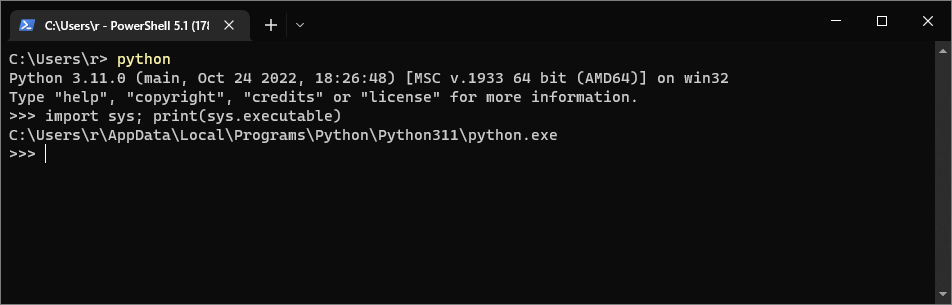
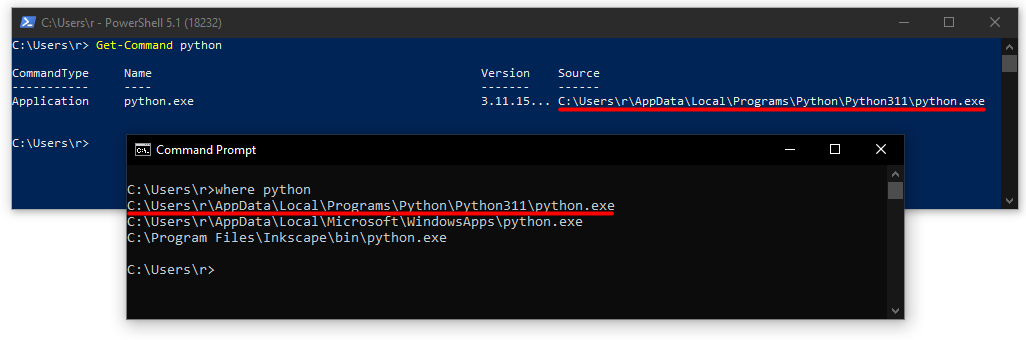
tweaks and link fixes to windows guides, still in reorg process

diff --git a/pydis_site/apps/content/resources/guides/python-guides/windows/putting-python-on-path.md b/pydis_site/apps/content/resources/guides/python-guides/windows/putting-python-on-path.md
@@ -5,10 +5,8 @@ icon: fab fa-windows
 toc: 2
 ---
 
-<!-- TODO Test the guide if you have no admin privileges and mention the differences. -->
-
 If you're on Windows and know you have [Python installed from python.org](https://www.python.org/downloads/) ([our
-recommended way](../installing-python.md)) but you're still getting errors like
+recommended way](../installing-python)) but you're still getting errors like
 
 ```text
 pip : The term 'pip' is not recognized as the name of a cmdlet, function, script file, or operable program.
@@ -16,7 +14,7 @@ pip : The term 'pip' is not recognized as the name of a cmdlet, function, script
 
 when trying to run a [pip](https://pip.pypa.io/en/stable/) or [pyinstaller](https://pypi.org/project/pyinstaller/)
 command, or running `python` [unexpectedly opens up the Microsoft
-Store](../microsoft-store.mdconfusing-app-execution-alias-behaviour), the issue is likely that your Windows Path
+Store](../microsoft-store#confusing-app-execution-alias-behaviour), the issue is likely that your Windows Path
 environment variable is improperly configured for Python. This just means Windows doesn't know how to find your Python
 installation.
 
@@ -72,7 +70,7 @@ still need to locate the installer exe at step 5 if it's not already in Download
 
 ### Verifying your changes
 
-To check that it worked, open a fresh terminal &mdash; Command Prompt, Powershell, an IDE-integrated terminal, [Windows
+To check that it worked, open a fresh terminal &mdash; Command Prompt, PowerShell, an IDE-integrated terminal, [Windows
 Terminal](https://apps.microsoft.com/store/detail/windows-terminal/9N0DX20HK701), whichever you prefer, just _not_ the
 Python terminal with the `>>>` prompt &mdash; and run
 
@@ -90,19 +88,24 @@ and you should see the versions of Python and pip that you just added to Path:
 
 ![Checking Python and pip versions.](/static/images/content/python-on-windows/testing_path_worked_1.png)
 
-You can also run Python with `python`, and then after `>>>` in the Python REPL, run
+Running `Get-Command python` in PowerShell, or `where python` in Command Prompt, you
+can see where that terminal is finding the `python.exe` it would run when a `python` command is given:
+
+![Get-Command/where Python.](/static/images/content/python-on-windows/testing_path_worked_2.png)
+
+(`where` in fact lists all the Pythons it finds, even the dummy [app execution
+alias](../microsoft-store#confusing-app-execution-alias-behaviour) one that opens the Microsoft Store.)
+
+You can also run Python with `python` (not `py` as that may start a different version, see more
+[here](.../py-launcher)), and then after `>>>` in the Python REPL, run
 
 ```py
-import sys; print(sys.executable)
+import sys; print(sys.executable); exit();
 ```
 
 to see that the exact executable that is currently running Python is what you expect:
 
-![Checking Python executable.](/static/images/content/python-on-windows/testing_path_worked_2.png)
-
-Type `exit()` from here to go back to the normal terminal.
-
-<!-- TODO mention that py may open a different version and link to py launcher guide. -->
+![Checking Python executable.](/static/images/content/python-on-windows/testing_path_worked_3.png)
 
 Of course your username will probably not be "r", and your executable path may differ from
 `C:\Users\<user>\AppData\Local\Programs\Python\Python311` depending on where you chose to install Python and what
@@ -142,7 +145,7 @@ foobar: The term 'foobar' is not recognized as the name of a cmdlet, function, s
 ```
 
 Or, in the case of not finding `python`, it may [open up the Microsoft
-store](../microsoft-store.md#confusing-app-execution-alias-behaviour).
+store](../microsoft-store#confusing-app-execution-alias-behaviour).
 
 Again, the Path lookup order is:
 
@@ -220,8 +223,9 @@ Follow these steps to add Python to the Path:
 
     This step may not be strictly necessary, but remember that command lookup happens in order from top to bottom.
     Python is often bundled with other software that may end up on the Path, so there's there could be another
-    `python.exe` in one of of the other folders on the path that gets in the way. (This exact thing has happened to me when
-    I put `C:\Program Files\Inkscape\bin` on my Path, as [Inkscape](https://inkscape.org/) comes with a copy of Python.)
+    `python.exe` in one of of the other folders on the path that gets in the way. (This exact thing has happened to me
+    when I put `C:\Program Files\Inkscape\bin` on my Path, as [Inkscape](https://inkscape.org/) comes with a copy of
+    Python.)
 
     Also, the System Path comes first in command lookup, so to be certain you to may want to go back and check the
     System Path (see step 5) and _carefully_ delete any entry that is a Python executable path blocking the one you just
@@ -232,10 +236,13 @@ Follow these steps to add Python to the Path:
 9.  Finish by making sure to hit "OK" on each of the thee "Edit environment variable", "Environment Variable", and
     "System Properties" windows, and then you're done!
 
-    Python and Python Scripts should not be on your Path! **You will need to restart any terminals or editors you have open before they detect the change.**
+    Python and Python Scripts should not be on your Path! **You will need to restart any terminals or editors you have
+    open before they detect the change.**
 
 At this point you can [verify your changes in the same way as detailed above](#verifying-your-changes). Hopefully it
 works!
 
 (These steps were written with Windows 10 and Python 3.11 in mind, but they should be identical or similar for Windows
 11 and other recent versions of Python.)
+
+<!-- dg:TODO? Test the guide if you have no admin privileges and mention the differences. -->

diff --git a/pydis_site/apps/content/resources/guides/python-guides/windows/microsoft-store.md b/pydis_site/apps/content/resources/guides/python-guides/windows/microsoft-store.md
@@ -7,13 +7,12 @@ icon: fab fa-windows
 [<img style="margin:1rem;" align="right" width="480px"
 src="/static/images/content/python-on-windows/ms_store_drake.png">](/static/images/content/python-on-windows/ms_store_drake.png)
 
-Microsoft provides versions of Python for Windows
-[on the Microsoft Store](https://apps.microsoft.com/store/search/python) as an alternative to using the
-[full installer from python.org](https://www.python.org/downloads). **We recommend you install Python on Windows using the
-[full installer from python.org](https://www.python.org/downloads),
-and not from the Microsoft store wherever possible!**
+Microsoft provides versions of Python for Windows [on the Microsoft
+Store](https://apps.microsoft.com/store/search/python) as an alternative to using the [full installer from
+python.org](https://www.python.org/downloads). **We recommend you install Python on Windows using the [full installer
+from python.org](https://www.python.org/downloads), and not from the Microsoft store wherever possible!**
 
-You can follow [this guide to install Python from python.org](../install-on-windows.md) and more Python Windows releases
+You can follow [this guide to install Python from python.org](../installing-python) and more Python Windows releases
 can be found [here](https://www.python.org/downloads/windows).
 
 Here are some common issues with using Python from the Microsoft Store:
@@ -27,9 +26,8 @@ Here are some common issues with using Python from the Microsoft Store:
 
 -   ##### It can cause issues with permissions
 
-    Some modules and scripts wont work with it because of restricted permissions.
-    This is explained
-    [in the Python documentation](https://docs.python.org/3/using/windows.html#redirection-of-local-data-registry-and-temporary-paths)
+    Some modules and scripts wont work with it because of restricted permissions. This is explained [in the Python
+    documentation](https://docs.python.org/3/using/windows.html#redirection-of-local-data-registry-and-temporary-paths)
 
 -   ##### It can cause Path confusion
 
@@ -43,7 +41,8 @@ Here are some common issues with using Python from the Microsoft Store:
     `C:\Users\<user>\AppData\Local\Programs\Python\Python311\Scripts` (for Python 3.11). If for some reason you want
     both installed, put the ones you want the commands for higher up in Path.
 
-    You can find the path of the executable for a version of Python by running `import sys; print(sys.executable)` in it.
+    You can find the path of the executable for a version of Python by running `import sys; print(sys.executable)` in
+    it.
 
 -   ##### Confusing app execution alias behaviour
 
@@ -67,6 +66,6 @@ Here are some common issues with using Python from the Microsoft Store:
 
 If you have the Microsoft Store version of Python and want to uninstall it, you can search "uninstall" in the Start menu
 to open up the "Apps & features" settings and filter by "python". The Python app that has a console in the icon and
-"Python Software Foundation" under the name is the Microsoft Store one (see image below). Click it and hit Uninstall.
+"Python Software Foundation" under the name is the Microsoft Store one. Click it and hit Uninstall.
 
 ![Which version is which when uninstalling Python](/static/images/content/python-on-windows/ms_store_uninstall.png)

diff --git a/pydis_site/apps/content/resources/guides/python-guides/windows/installing-python.md b/pydis_site/apps/content/resources/guides/python-guides/windows/installing-python.md
@@ -4,10 +4,13 @@ description: How we recommend installing Python on Windows
 icon: fab fa-windows
 ---
 
-The recommended way to install Python on windows is directly from the
-[Python website's Downloads page](https://www.python.org/downloads/windows/).
-Installing Python from the Microsoft Store is not recommended as it can
-[cause issues](../microsoft-store.md).
+Our recommended way of installing Python on Windows is using a full installer from the official [python.org Downloads
+page](https://www.python.org/downloads/). Installing Python from the [Microsoft
+Store](https://apps.microsoft.com/store/search/python) is _not_ recommended as [it can cause various
+issues](../microsoft-store).
+
+On [python.org/downloads](https://python.org/downloads), click the big yellow "Download Python 3.x.x" button near the top of the page and it should automatically start a download of the installer for the latest stable version of Python
+that best suits your computer.
 
 ## Selecting an Installer
 
@@ -56,7 +59,7 @@ Python installation on your PATH and don't want this one to override it, don't
 tick this.
 
 If you installed Python without adding to PATH and now want to add it, see
-[our guide on adding Python to PATH](../python-on-windows.md#adding-python-to-your-path).
+[our guide on adding Python to PATH](../putting-python-on-path).
 
 Then simply click install, and wait for the install to finish!
 
@@ -64,5 +67,5 @@ To test your installation, type "cmd" in the windows search bar and select
 "Command Prompt" to open a terminal (make sure it's opened _after_ installation
 has finished) type `python -V`, and press enter. If it outputs your python
 version, you've successfully installed Python. (if you didn't add to PATH, you
-can use [the py launcher](../python-on-windows.md#the-py-launcher) to test
+can use [the py launcher](../py-launcher) to test
 instead).

diff --git a/pydis_site/apps/content/resources/guides/python-guides/windows/unix-env-on-windows.md b/pydis_site/apps/content/resources/guides/python-guides/windows/unix-env-on-windows.md
@@ -4,8 +4,6 @@ description: How to setup a Unix-style Python environment ready to start coding 
 icon: fab fa-windows
 ---
 
-<!-- TODO? Mention WSL2? -->
-
 Many programmers use Linux or macOS operating systems for their work, though newcomers to programming will likely want
 to get started on the computer they already own, which will often be running Windows.
 
@@ -17,7 +15,7 @@ command prompt called Git Bash, which will support many of the commands availabl
 ## Installing Python
 
 First you'll need to install Python. We recommend installing from the Python website, you can follow our guide on how to
-do this [here](../install-on-windows.md).
+do this [here](../installing-python).
 
 ## Installing a text editor
 
@@ -70,3 +68,5 @@ location, you can use the `cd` command ("cd" stands for "change directory") to n
 desktop, `cd /c/Users/YourUsername/Desktop` will take you there. Otherwise if you have the directory open in your file
 explorer, you can right click anywhere in the white space of the file explorer window (not on top of a file) and select
 "Git Bash Here". Once you're there, type `python hello.py`, and the program will run.
+
+<!-- dg:TODO? Mention WSL2? -->

diff --git a/pydis_site/apps/content/resources/guides/python-guides/windows/py-launcher.md b/pydis_site/apps/content/resources/guides/python-guides/windows/py-launcher.md
@@ -1,12 +1,10 @@
 ---
-title: The py Launcher on Windows
-description: Common commands and usage of the Windows "py" Python launcher
+title: The py Launcher
+description: Common commands and usage of the "py" Python launcher on Windows
 icon: fab fa-windows
 ---
 
-When you install Python on Windows fron
-
-TODO!!! rewrite/rearrange to be all about the py command
+<!-- dg:TODO rewrite/rearrange to be all about the py command -->
 
 ## The py launcher
 
